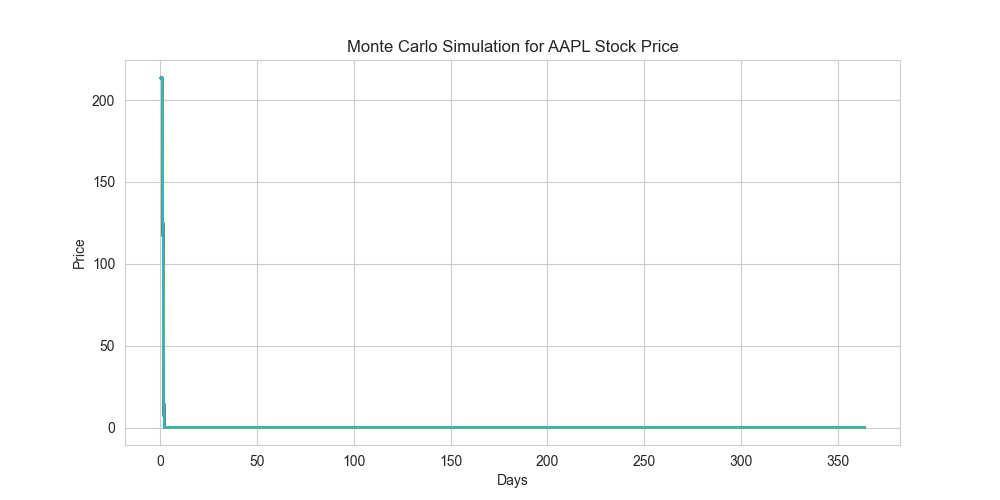
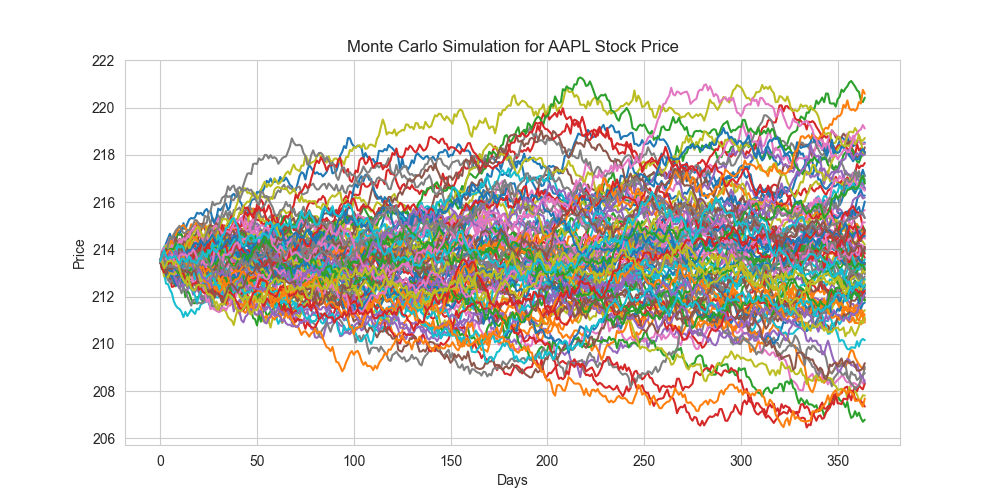
fixed frontend backend and montecarlo analysis

diff --git a/stock-market-backend/stock_market_analysis.py b/stock-market-backend/stock_market_analysis.py
@@ -81,7 +81,7 @@ def generate_stock_charts(ticker):
 
     # Monte Carlo Simulation
     try:
-        start_price = float(stock_data['Close'].dropna().iloc[-1])  # Fix for float conversion issue
+        start_price = float(stock_data['Close'].dropna().iloc[-1]) if not stock_data['Close'].dropna().empty else None
     except IndexError:
         logger.error("No closing price data available for Monte Carlo simulation.")
         return {"error": f"No valid closing price found for {ticker}"}
@@ -125,7 +125,11 @@ def stock_monte_carlo(start_price, days, mu, sigma):
     """Simulates stock prices using Geometric Brownian Motion"""
     price = np.zeros(days)
     price[0] = start_price
-    shocks = np.random.normal(loc=mu / days, scale=sigma * np.sqrt(1 / days), size=days - 1)  # Fix size mismatch
-    drifts = np.full(days - 1, mu / days)
-    price[1:] = price[:-1] * (1 + drifts + shocks)
+    
+    for t in range(1, days):
+        shock = np.random.normal(loc=mu / days, scale=sigma * np.sqrt(1 / days))
+        price[t] = price[t - 1] * np.exp(shock)  # Exponentiate to ensure compounding
+        
     return price
+
+

diff --git a/stock-market-backend/main.py b/stock-market-backend/main.py
@@ -1,5 +1,5 @@
 from fastapi import FastAPI
-from fastapi.responses import JSONResponse, FileResponse
+from fastapi.responses import JSONResponse
 from fastapi.middleware.cors import CORSMiddleware
 from fastapi.staticfiles import StaticFiles
 import os
@@ -20,12 +20,16 @@ app.add_middleware(
 def generate_stock_charts_api(ticker: str):
     """Generate stock charts for any stock ticker"""
     image_paths = generate_stock_charts(ticker)
+    
     if isinstance(image_paths, dict):  # If error
         return JSONResponse(image_paths)
 
-    image_urls = [f"http://127.0.0.1:8000/{path}" for path in image_paths]
+    # FIX: Ensure correct URL paths
+    image_urls = [f"http://127.0.0.1:8000/images/{os.path.basename(path)}" for path in image_paths]
+
+    print(f"Generated images: {image_urls}")  # Debugging line
+
     return JSONResponse({"images": image_urls})
 
 # Serve static images
 app.mount("/images", StaticFiles(directory="images"), name="images")
-
